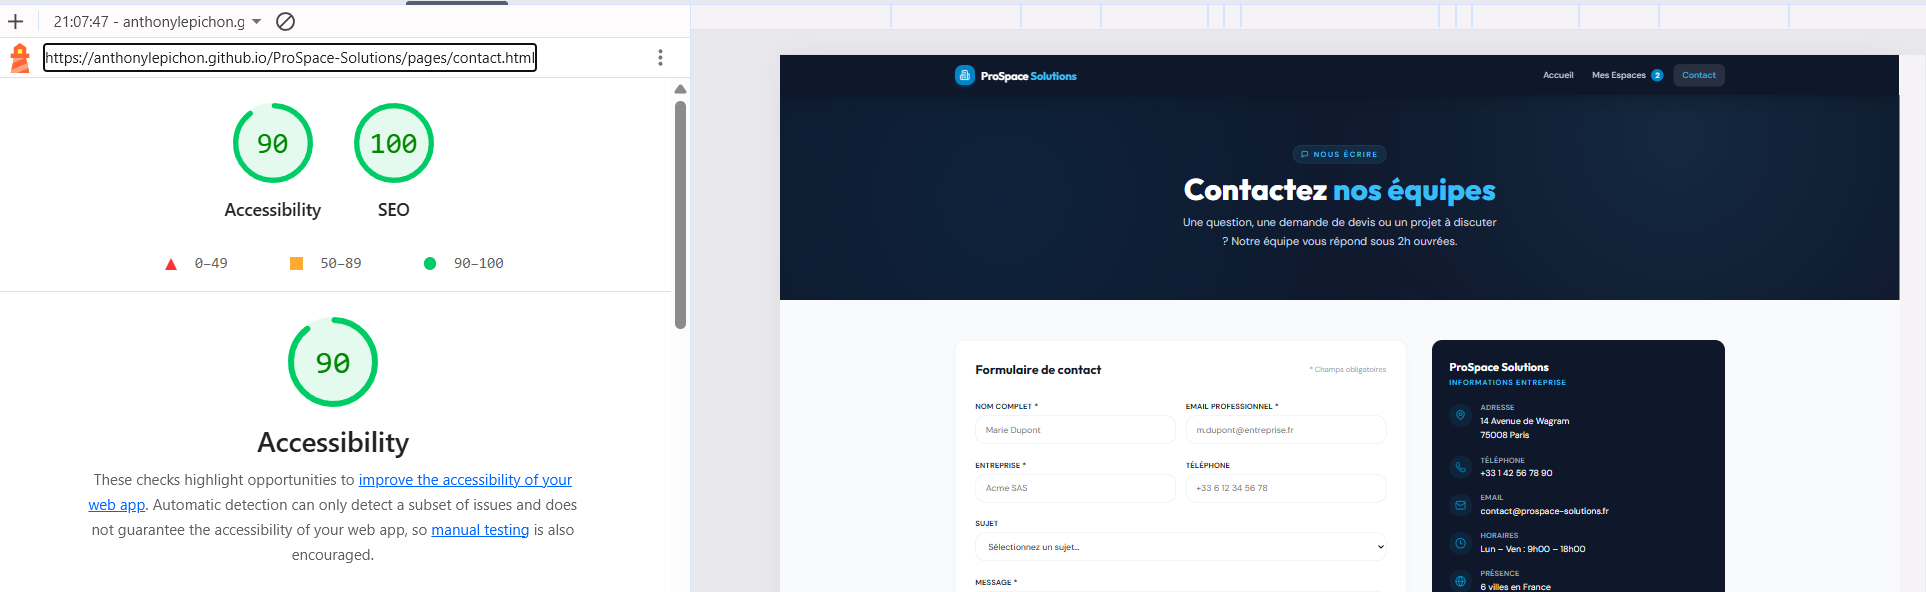
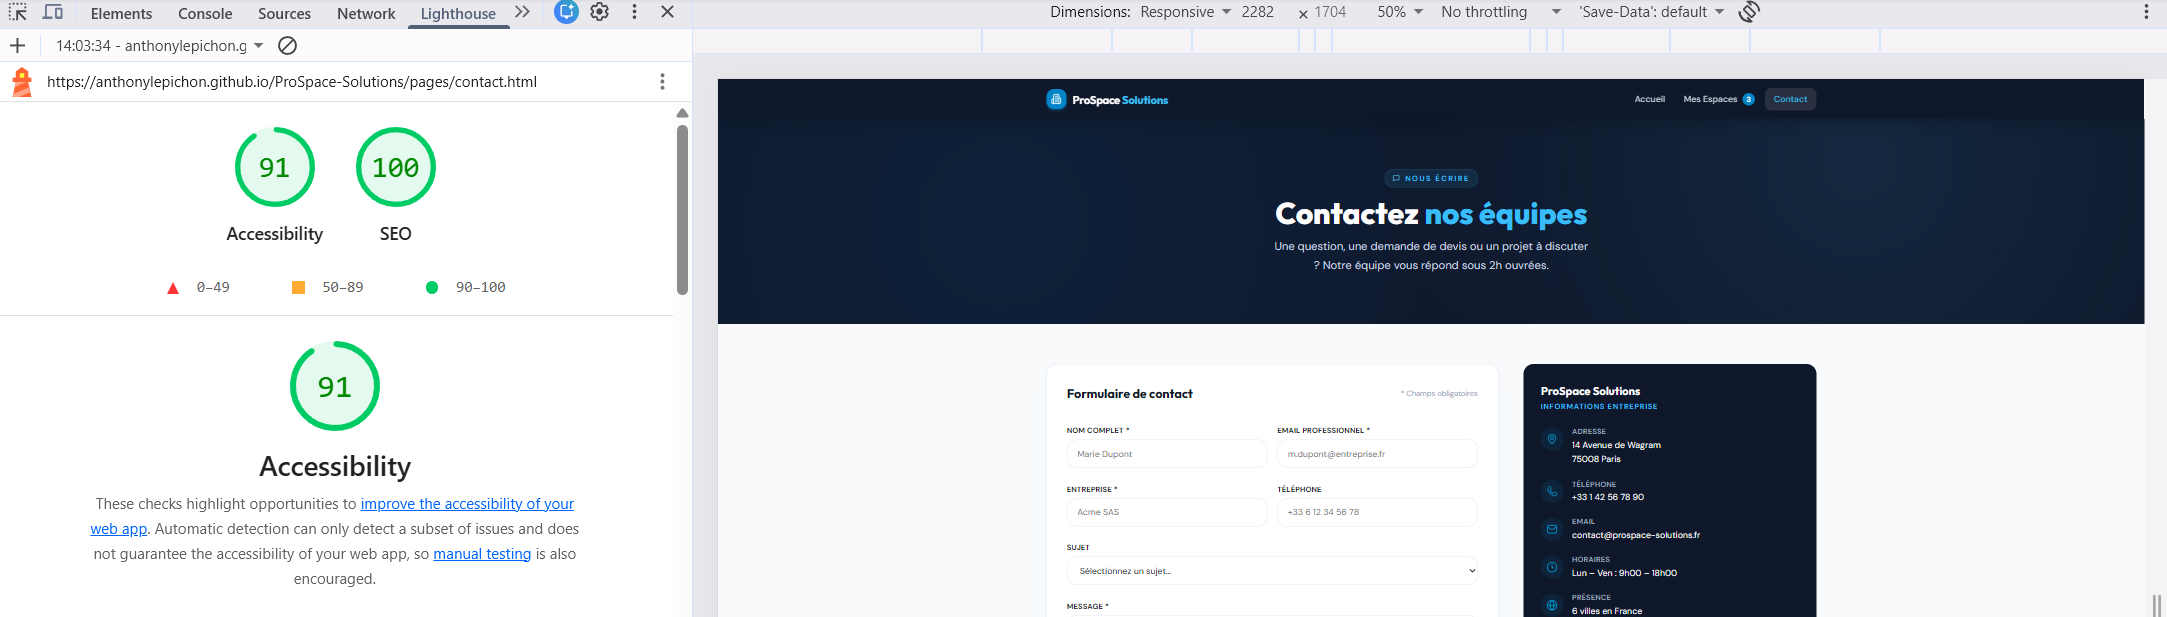
Mettre à jour les résultats Lighthouse de Contact

diff --git a/README.md b/README.md
@@ -230,9 +230,9 @@ Le cahier des charges fixe un objectif supérieur à 90 pour le SEO et l'accessi
 | Accueil | 96 | 100 | 96 | 100 |
 | Fiche espace | 94 | 100 | 94 | 100 |
 | Mes espaces | 93 | 100 | 93 | 100 |
-| Contact | 90 | 100 | 90 | 100 |
+| Contact | 91 | 100 | 91 | 100 |
 
-Toutes les pages obtiennent 100 en SEO. Les pages Accueil, Fiche espace et Mes espaces dépassent 90 en accessibilité. La page Contact atteint 90, mais ne dépasse pas encore strictement l'objectif fixé par le cahier des charges.
+Toutes les pages obtiennent 100 en SEO. Les pages Accueil, Fiche espace, Contact et Mes espaces dépassent 90 en accessibilité.
 
 ### Captures Desktop
 
